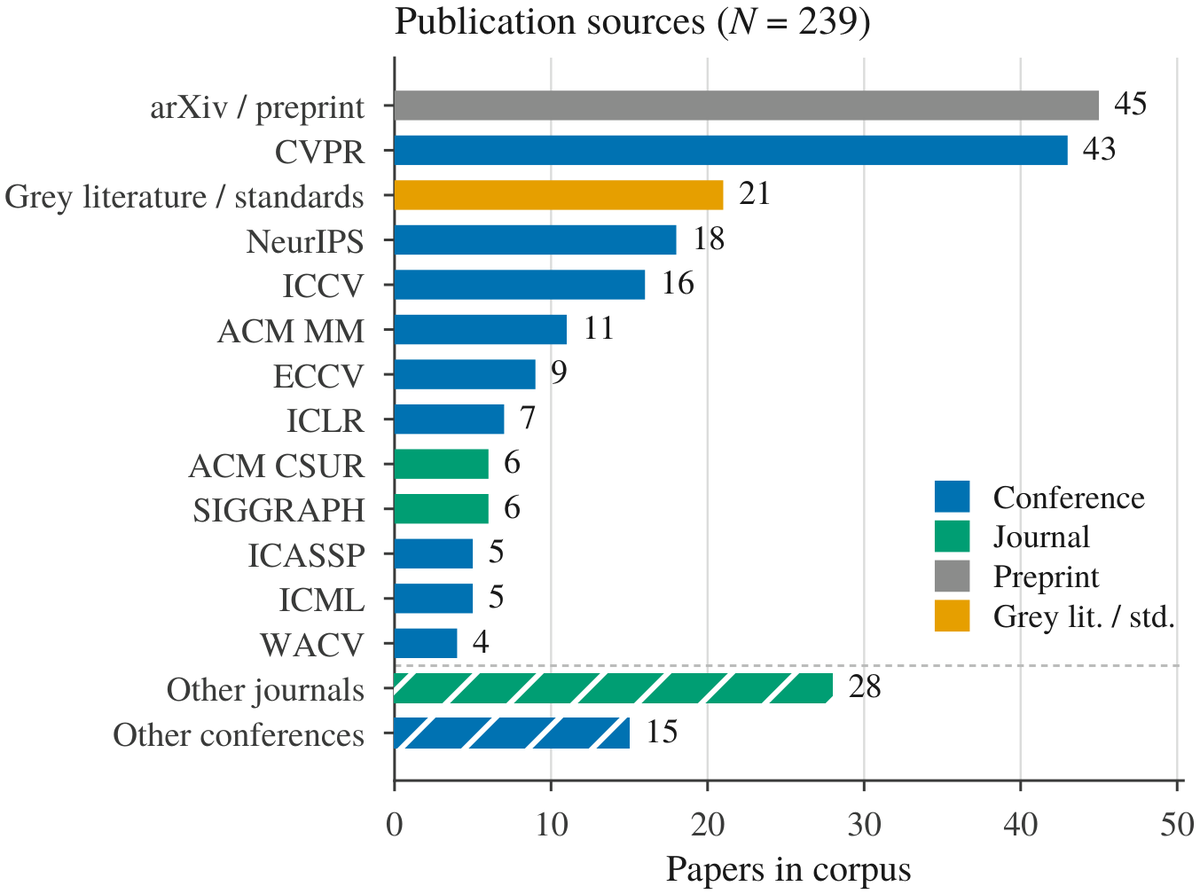
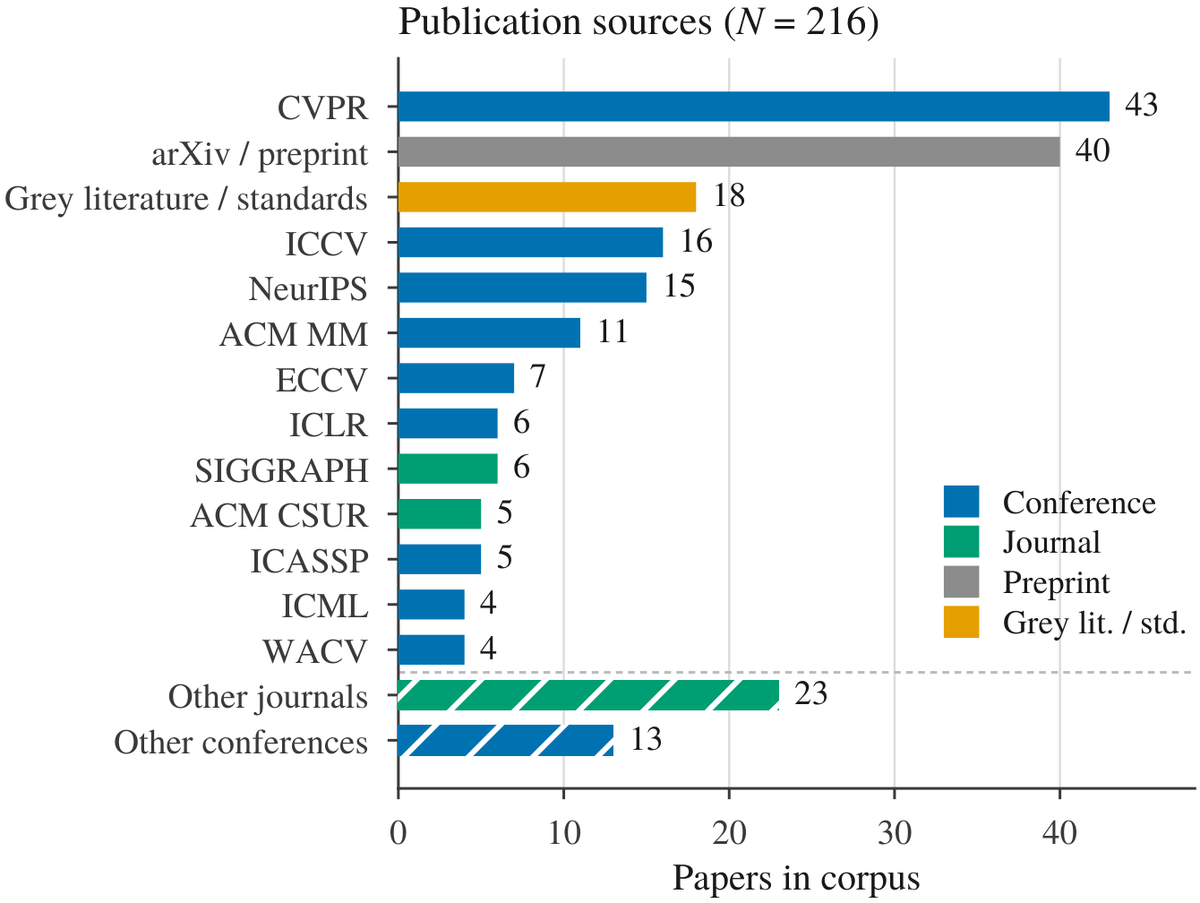
Sync with the revised paper
New title, four authors, and the corpus is 212 now instead of 239 - the
macro, the abstract and the actual citation count all agree on 212.

Also: 73% peer-reviewed, 13% for distribution/provenance/remediation,
218 excluded after full-text. Findings F1-F6 use Shaina's revised wording.
Four references were dropped from the paper, so the list is 212 entries.
Corpus charts re-rendered from the updated figure sources. Contact is just
Shaina's email.

diff --git a/docs/index.html b/docs/index.html
@@ -3,13 +3,13 @@
 <head>
   <meta charset="utf-8">
   <meta name="viewport" content="width=device-width, initial-scale=1">
-  <meta name="description" content="A survey of generative audio-video deepfakes across creation, platform distribution, detection, provenance, and remediation, organized around five forensic assumptions.">
+  <meta name="description" content="A survey of 212 works on generative audio-video deepfakes across creation, platform distribution, detection, provenance, and remediation, organized around five forensic assumptions.">
   <meta name="theme-color" content="#1e293b">
-  <title>Deepfake Detection Beyond the Lab</title>
+  <title>Deepfakes in the Foundation-Model Era</title>
 
   <meta property="og:type" content="website">
-  <meta property="og:title" content="Deepfake Detection Beyond the Lab: A Survey of Real-World Distribution, Forensics, and Provenance">
-  <meta property="og:description" content="239 works across the deepfake lifecycle, organized around five forensic assumptions that detectors implicitly rely on.">
+  <meta property="og:title" content="Deepfakes in the Foundation-Model Era: A Survey of Forensics, Distribution, and Provenance">
+  <meta property="og:description" content="212 works across the deepfake lifecycle, organized around five forensic assumptions that detectors implicitly rely on.">
   <meta property="og:url" content="https://vectorinstitute.github.io/deepfakes-survey-2026/">
   <meta property="og:image" content="https://vectorinstitute.github.io/deepfakes-survey-2026/images/figure5-lifecycle.png">
   <meta name="twitter:card" content="summary_large_image">
@@ -36,19 +36,18 @@
               </a>
             </div>
 
-            <h1 class="title is-1 publication-title">Deepfake Detection Beyond the Lab</h1>
-            <p class="is-size-5 publication-subtitle">A Survey of Real-World Distribution, Forensics, and Provenance</p>
+            <h1 class="title is-1 publication-title">Deepfakes in the Foundation-Model Era</h1>
+            <p class="is-size-5 publication-subtitle">A Survey of Forensics, Distribution, and Provenance</p>
 
             <div class="is-size-5 publication-authors">
               <span class="author-block">Shaina Raza,</span>
-              <span class="author-block">Jesse Ho,</span>
-              <span class="author-block">Ahmed Radwan,</span>
-              <span class="author-block">Mohamed Hafez,</span>
-              <span class="author-block">Graham Taylor</span>
+              <span class="author-block">Jessee Ho,</span>
+              <span class="author-block">Ahmed Y. Radwan,</span>
+              <span class="author-block">Mohamed Hafez</span>
             </div>
 
             <div class="is-size-6 publication-authors">
-              <span class="author-block">Vector Institute</span>
+              <span class="author-block">Vector Institute for Artificial Intelligence</span>
             </div>
 
             <div class="column has-text-centered">
@@ -111,24 +110,7 @@
           <h2 class="title is-3">Abstract</h2>
           <div class="content has-text-justified">
             <p>
-              Deepfake detection is usually measured on curated benchmarks, yet most synthetic video reaches an
-              audience through social media platforms that compress, resize, re-encode, crop, and repost it long
-              before any detector sees it. The practical question is therefore not whether a detector separates
-              real from fake under laboratory conditions, but whether the evidence it depends on still exists at
-              the moment a decision has to be made. This survey reviews 239 works on generative audio-video
-              deepfakes across the full lifecycle of creation, platform distribution, detection, provenance, and
-              remediation. We organize the review around five forensic assumptions that detectors implicitly rely
-              on: that a manipulated region leaves a boundary, that a generator leaves a stable fingerprint, that
-              test data resemble training data, that forensic signals survive processing, and that low-level clues
-              are sufficient. Using these assumptions as a common lens, we present an evidence-based taxonomy of
-              generation methods, review signal-driven, learning-based, reasoning-based, agentic, and adversarially
-              robust detection, and examine provenance mechanisms including content credentials and watermarking
-              alongside emerging disclosure and takedown regulation. Two findings recur. First, foundation-model
-              generation invalidates several assumptions at once, since fully synthetic and jointly generated
-              audio-video content offers neither a compositing boundary nor an exploitable cross-modal
-              inconsistency. Second, the literature is concentrated on creation and detection, with distribution,
-              provenance, and remediation together accounting for 12% of the corpus. We close with evaluation
-              protocols that report which assumptions a benchmark actually exercises.
+              Deepfake detection is usually measured on curated benchmarks, yet synthetic video often reaches audiences through social-media platforms that compress, resize, re-encode, crop, and repost it before downstream detection. The practical question is therefore not whether a detector separates real from fake under laboratory conditions, but whether the evidence it depends on still exists at the moment a decision must be made. This survey reviews 212 works on generative audio-video deepfakes across the full lifecycle of creation, platform distribution, detection, provenance, and remediation. We organize the review around five forensic assumptions that detectors implicitly rely on: that a manipulated region leaves a boundary, that a generator leaves a stable fingerprint, that test data resemble training data, that forensic signals survive processing, and that low-level clues are sufficient. Using these assumptions as a common lens, we present an evidence-based taxonomy of generation methods, review signal-driven, learning-based, reasoning-based, agentic, and adversarially robust detection, and examine provenance mechanisms including content credentials and watermarking alongside emerging disclosure and takedown regulation. Two findings recur. First, foundation-model generation can weaken several assumptions at once, since fully synthetic and jointly generated audio-video content may remove compositing boundaries and reduce exploitable cross-modal inconsistencies. Second, the literature is concentrated on creation and detection, with distribution, provenance, and remediation together accounting for 13% of the corpus. We close with evaluation protocols that report which assumptions a benchmark actually exercises.
             </p>
           </div>
         </div>
@@ -188,19 +170,19 @@
 
       <div class="columns is-centered stat-row has-text-centered">
         <div class="column stat">
-          <div class="stat-value">239</div>
+          <div class="stat-value">212</div>
           <div class="stat-label">works reviewed</div>
         </div>
         <div class="column stat">
-          <div class="stat-value">216</div>
-          <div class="stat-label">references cited</div>
+          <div class="stat-value">73%</div>
+          <div class="stat-label">peer-reviewed</div>
         </div>
         <div class="column stat">
           <div class="stat-value">75%</div>
           <div class="stat-label">creation &amp; detection</div>
         </div>
         <div class="column stat">
-          <div class="stat-value">12%</div>
+          <div class="stat-value">13%</div>
           <div class="stat-label">distribution, provenance, remediation</div>
         </div>
       </div>
@@ -238,7 +220,7 @@
       <h2 class="title is-3">Paper List</h2>
       <div class="content">
         <p>
-          All 216 references, grouped by year and by the role each plays in the survey, are on GitHub.
+          All 212 references, grouped by year and by the role each plays in the survey, are on GitHub.
         </p>
       </div>
       <a href="https://github.com/VectorInstitute/deepfakes-survey-2026" target="_blank" rel="noopener"
@@ -255,11 +237,11 @@
   <section class="section" id="BibTeX">
     <div class="container is-max-desktop content">
       <h2 class="title is-3 has-text-centered">BibTeX</h2>
-      <pre><code>@article{raza2026deepfake,
-  title   = {Deepfake Detection Beyond the Lab: A Survey of
-             Real-World Distribution, Forensics, and Provenance},
-  author  = {Raza, Shaina and Ho, Jesse and Radwan, Ahmed and
-             Hafez, Mohamed and Taylor, Graham},
+      <pre><code>@article{raza2026deepfakes,
+  title   = {Deepfakes in the Foundation-Model Era: A Survey of
+             Forensics, Distribution, and Provenance},
+  author  = {Raza, Shaina and Ho, Jessee and Radwan, Ahmed Y. and
+             Hafez, Mohamed},
   journal = {ACM Computing Surveys},
   year    = {2026},
   note    = {Under review}
@@ -280,6 +262,7 @@
               Resources used in preparing this research were provided, in part, by the Province of Ontario,
               the Government of Canada through CIFAR, and companies sponsoring the
               <a href="http://www.vectorinstitute.ai/#partners" target="_blank" rel="noopener">Vector Institute</a>.
+              This research was funded by the EU's Horizon Europe project AIXPERT (ID 101214389).
             </p>
             <p>
               This page was built using the

diff --git a/README.md b/README.md
@@ -1,9 +1,9 @@
-# Deepfake Detection Beyond the Lab: A Survey of Real-World Distribution, Forensics, and Provenance
+# Deepfakes in the Foundation-Model Era: A Survey of Forensics, Distribution, and Provenance
 
 [![Paper](https://img.shields.io/badge/Paper-Coming%20Soon-lightgrey)](https://github.com/VectorInstitute/deepfakes-survey-2026)
 [![Project Page](https://img.shields.io/badge/Project-Website-brightgreen)](https://vectorinstitute.github.io/deepfakes-survey-2026/)
-[![Corpus](https://img.shields.io/badge/Corpus-239%20works-blue)](#-the-evidence-gap)
-[![References](https://img.shields.io/badge/References-216-blue)](#-papers-by-category)
+[![Corpus](https://img.shields.io/badge/Corpus-212%20works-blue)](#-the-evidence-gap)
+[![References](https://img.shields.io/badge/References-212-blue)](#-papers-by-category)
 [![License: MIT](https://img.shields.io/badge/License-MIT-yellow)](LICENSE)
 [![PRs Welcome](https://img.shields.io/badge/PRs-welcome-brightgreen)](CONTRIBUTING.md)
 
@@ -21,21 +21,21 @@ Companion repository for our survey on **real-world deepfake detection**. Deepfa
 
 The practical question is therefore not whether a detector separates real from fake under laboratory conditions, but **whether the evidence it depends on still exists at the moment a decision has to be made**.
 
-**Authors:** Shaina Raza¹, Jesse Ho¹, Ahmed Radwan¹, Mohamed Hafez¹, Graham Taylor¹
+**Authors:** Shaina Raza¹, Jessee Ho¹, Ahmed Y. Radwan¹, Mohamed Hafez¹
 
 ¹Vector Institute for Artificial Intelligence
 
 | | |
 |---|---|
-| **Corpus** | 239 works; 72% peer-reviewed; median publication year 2024 |
-| **References** | 216 cited works, all listed below |
+| **Corpus** | 212 works; 73% peer-reviewed; median publication year 2024 |
+| **References** | 212 cited works, all listed below |
 | **Search window** | January 2017 – August 2026 |
 | **Databases** | IEEE Xplore · ACM DL · SpringerLink · ScienceDirect · OpenReview · PMLR · AAAI DL · arXiv |
 | **Scope** | Audio-video deepfakes, from generation through platform distribution to remediation |
 
 ---
 
-## What does "beyond the lab" mean?
+## What the survey covers
 
 
 A deepfake is not simply a video to classify. It passes through a lifecycle of creation, upload, platform processing, recommendation, viewing, reporting, review, and eventual removal, labelling, or continued spread. Media transformations within that lifecycle — compression, re-encoding, cropping, reposting — weaken or alter the very forensic traces that detectors rely on.
@@ -80,25 +80,12 @@ Detectors rely on assumptions about the evidence available to them. The survey g
   <br/>
   <img src="docs/images/figure3c-year-role.png" alt="Stacked bar chart of publications per year by primary role" width="47%"/>
   <img src="docs/images/figure3d-arms-race.png" alt="Line chart of cumulative generation versus detection effort" width="37%"/>
-  <p><em><strong>Figure 3.</strong> Overview of the reviewed corpus. (a) Creation and detection account for three quarters of the corpus, against 12% for distribution, provenance, and remediation combined. (b) Publication sources by venue type; 72% peer-reviewed. (c) Publications per year by primary role; the 2026 bar is partial (January to August). (d) Cumulative effort: detection led through 2023, but generation led by 24 works in 2024.</em></p>
+  <p><em><strong>Figure 3.</strong> Overview of the reviewed corpus. (a) Creation and detection account for 75% of the corpus, compared with 13% for distribution, provenance, and remediation combined. (b) Publication sources by venue type; 73% of the corpus is peer-reviewed. (c) Publications per year by primary generation/detection role; the 2026 bar is partial (January–August). (d) Cumulative generation and detection coverage over time.</em></p>
 </div>
-
-**Lifecycle-stage coverage (N = 239):**
-
-| Stage | Works | Share |
-|---|---:|---:|
-| Creation | 94 | 39% |
-| Detection | 85 | 36% |
-| Foundations / other | 32 | 13% |
-| Provenance | 16 | 7% |
-| Remediation | 8 | 3% |
-| Distribution | 4 | 2% |
-| **Distribution + provenance + remediation** | **28** | **12%** |
 
 **Key trends:**
 
-- **Coverage imbalance** — Creation and detection account for **75%** of the corpus, while distribution, provenance, and remediation together account for **12%**. The stages that determine what evidence survives to a detector are among the least studied.
-- **Generation is pulling ahead** — Cumulative generation research overtook detection research by 24 works in 2024.
+- **Coverage imbalance** — Creation and detection account for **75%** of the corpus, while distribution, provenance, and remediation together account for **13%**. The stages that determine what evidence survives to a detector are among the least studied.
 - **Benchmarks do not transfer** — Deepfake-Eval-2024 collects roughly 44 hours of video from 88 web sources and reports an average **50% AUC reduction** for evaluated open-source video detectors relative to their original benchmarks.
 - **Prevalence dominates deployment** — At 0.1% synthetic-media prevalence, a detector with TPR = 0.90 and FPR = 0.01 reaches only about **8.3% precision**. Threshold-independent AUC hides this entirely.
 
@@ -121,8 +108,8 @@ Detectors rely on assumptions about the evidence available to them. The survey g
 |---|---:|---|
 | Identified through database search and supplementary sources | 1,247 | 203 duplicates removed |
 | Screened by title & abstract | 1,044 | 614 excluded as irrelevant |
-| Full-text articles assessed for eligibility | 430 | 191 excluded after full-text review |
-| **Works included in survey** | **239** | — |
+| Full-text articles assessed for eligibility | 430 | 218 excluded after full-text review |
+| **Works included in survey** | **212** | — |
 
 </details>
 
@@ -250,19 +237,19 @@ Table 5 of the survey. *Described* denotes effects reported without a quantitati
 
 Applying A1–A5 uniformly across the reviewed generation methods, detectors, platform transformations, and benchmarks yields six findings.
 
-**F1. Effort concentrates on A3 and avoids A4.** Of the 50 detectors in Table 4, **36** include a mechanism for distribution shift (`A3`), whereas **39** depend on signals surviving processing (`A4`) and only **10** mitigate its failure. Six of those ten are reasoning or agentic systems whose per-sample cost rules them out of platform-scale screening. The assumption that distribution breaks most reliably has the fewest methods, and the fewest deployable ones.
+**F1. Research emphasizes A3 more than A4.** Of the **50 detectors** coded in Table 4, **36** explicitly mitigate distribution shift (`A3`), whereas **39** depend on forensic signals surviving processing (`A4`) and only **10** mitigate its failure. Five of these ten are reasoning-based or agentic systems, whose multiple inference or tool calls may limit their suitability for platform-scale screening. Although `A4` is widely assumed by existing methods, comparatively few directly address its failure.
 
-**F2. Boundary evidence has lapsed.** **41 of 50** detectors neither depend on `A1` nor mitigate it, and residual evidence falls from High for autoencoder and GAN face swapping to Low for diffusion, autoregressive, and flow-based full-frame generation. `A1` now carries weight only for localized editing, lip-sync, and composited body transfer.
+**F2. Boundary evidence is becoming less central.** In Table 4, **41 of 50** detectors neither depend on `A1` nor explicitly mitigate its failure. Residual boundary evidence declines from High for autoencoder- and GAN-based face manipulation to Low for diffusion, autoregressive, and flow-based full-frame generation. `A1` therefore remains most relevant to localized manipulations such as compositing, lip-sync editing, and body transfer rather than fully synthetic generation.
 
-**F3. Generalization is measured through one aging shift.** **18 of the 50** detectors report FaceForensics++ → Celeb-DF v2 as their headline cross-dataset result. Both endpoints are pre-2021 autoencoder and GAN identity swaps, so the number certifies transfer between two closely related face-swap distributions rather than open-world generalization. `A3` is at once the most mitigated assumption and the least stringently measured.
+**F3. Generalization is often evaluated through a narrow cross-dataset shift.** **Eighteen of the 50** detectors report FaceForensics++ → Celeb-DF v2 as a principal cross-dataset evaluation. Both benchmarks primarily represent pre-foundation-model facial manipulation, so this protocol measures transfer between related face-manipulation distributions rather than open-world generalization to contemporary generators. `A3` is therefore the most frequently mitigated assumption, while its evaluation remains comparatively narrow.
 
-**F4. Foundation-model content is largely unevaluated.** **34 of the 50** detectors report no evaluation on diffusion or foundation-model media; **14** do and **2** partially, and those that do belong to families that appeared from 2023 onward. This is a gap in the evaluation record rather than evidence of failure, and closing it requires re-evaluation, not new architectures.
+**F4. Foundation-model content remains under-evaluated.** Of the 50 detectors, **34** report no evaluation on diffusion- or foundation-model-generated media, **two** provide partial evaluation, and **14** explicitly evaluate such content. This represents a gap in the evaluation record rather than evidence that earlier detectors necessarily fail. Existing methods should be re-evaluated on contemporary generation paradigms before performance gaps are attributed solely to architectural limitations.
 
-**F5. Lifecycle effects are asserted, not measured.** **Three of the nine** platform transformations in Table 5 have a quantified effect and **one** is partial. Repost depth and screen recording have no degradation curve, and no work reports time to detection, posts before detection, or platforms reached. The gaps track the corpus imbalance: 12% of the 239 works cover distribution, provenance, and remediation against 75% for creation and detection.
+**F5. Lifecycle effects are more often described than quantified.** Of the **nine** entries in Table 5, **three** report quantitatively measured effects and **one** has partial evidence. Repost depth and screen recording lack reported degradation curves, and no work in the reviewed corpus reports time to detection, posts observed before detection, or platforms reached. This mirrors the broader corpus imbalance: only **13%** of the reviewed works address distribution, provenance, and remediation, compared with **75%** covering creation and detection.
 
-**F6. Benchmarks cover what is easy to vary.** Across the **22** benchmarks in Table 6, generator diversity (`A2`) is exercised by **21** and train–test dissimilarity (`A3`) by **20**, while signal survival (`A4`) is exercised by **12** and boundary availability (`A1`) by **13**; **three** exercise all five. Ranking therefore certifies the assumptions that adding generators can vary, while the reported halving of AUC on circulated media arises under conditions half the datasets omit.
+**F6. Benchmarks emphasize generator and distribution diversity over signal survival.** Across the **22** benchmarks in Table 6, generator diversity (`A2`) is exercised by **21** and train–test dissimilarity (`A3`) by **20**, whereas signal survival under processing (`A4`) is exercised by **12** and boundary availability (`A1`) by **13**; only **three** exercise all five assumptions. Current benchmark coverage therefore favors generator and distribution diversity, while substantially fewer benchmarks test whether forensic evidence survives realistic processing.
 
-> **Two consequences follow.** Provenance does not absorb the shortfall, because marking obligations bind identifiable providers while open-weight and locally run generators — the ones most used for targeted non-consensual and political content — fall outside them; watermark robustness cannot extend coverage the generator population does not grant. What the findings imply is not better classifiers but measurement of what survives distribution, and reporting of detection performance under it.
+> **Two consequences follow.** First, provenance cannot fully compensate for this evaluation gap because its coverage depends on adoption by generators and platforms; open-weight, forked, or locally operated pipelines may remain outside participating provenance ecosystems regardless of watermark robustness. Second, the findings motivate greater emphasis not only on improving classifiers, but on measuring which forensic signals survive real distribution pipelines and reporting detector performance under those conditions.
 
 </details>
 
@@ -272,11 +259,9 @@ Applying A1–A5 uniformly across the reviewed generation methods, detectors, pl
 ## 📖 Papers by Category
 
 
-All **216 references cited by the survey**, organized by the role each plays in the argument. Groups follow the paper's own tables: generation groups mirror Table 3, detection families mirror Table 4, and benchmarks mirror Table 6. Blockquotes give the assumption note the survey attaches to that group.
+All **212 references cited by the survey**, organized by the role each plays in the argument. Groups follow the paper's own tables: generation groups mirror Table 3, detection families mirror Table 4, and benchmarks mirror Table 6. Entries are ordered newest-first within a subsection, and blockquotes give the assumption note the survey attaches to that group.
 
-**Click any group to expand it.** Entries inside are grouped by year, newest first.
-
-> The reviewed **corpus** is 239 works while the **bibliography** cites 216: the corpus counts items the coverage analysis in Figure 3 scores, some of which are grouped as a series (the ASVspoof releases, for instance) or discussed only in aggregate. This list follows the bibliography, and covers all 216.
+> Corpus size and reference count now agree: the survey reviews 212 works and cites 212 references.
 
 ## 1. Foundations & Forensic Context
 
@@ -328,20 +313,15 @@ Section 2 of the survey: the five-stage attack pipeline, the generative paradigm
 </details>
 
 <details>
-<summary><strong>Preprocessing and representation</strong> &nbsp;<sub>4 entries</sub></summary>
+<summary><strong>Preprocessing and representation</strong> &nbsp;<sub>2 entries</sub></summary>
 
 **2020**
 
-- [2020] **Retinaface: Single-shot multi-level face localisation in the wild** *Jiankang Deng et al.* [[paper](https://doi.org/10.1109/cvpr42600.2020.00525)]
 - [2020] **wav2vec 2.0: A framework for self-supervised learning of speech representations** *Alexei Baevski et al.* [[paper](https://arxiv.org/abs/2006.11477)]
 
 **2016**
 
 - [2016] **Joint face detection and alignment using multitask cascaded convolutional networks** *Kaipeng Zhang et al.* [[paper](https://doi.org/10.1109/lsp.2016.2603342)]
-
-**1999**
-
-- [1999] **A Morphable Model for the Synthesis of 3D Faces** *Volker Blanz et al.* [[paper](https://doi.org/10.1145/311535.311556)]
 
 </details>
 
@@ -494,14 +474,13 @@ Section 3, organized by manipulation target, because the target determines what 
 </details>
 
 <details>
-<summary><strong>Lip-sync manipulation</strong> &nbsp;<sub>4 entries</sub></summary>
+<summary><strong>Lip-sync manipulation</strong> &nbsp;<sub>3 entries</sub></summary>
 
 > `A1` holds only around the mouth, and `A4` is especially fragile because compression erases small-region traces first.
 
 **2024**
 
 - [2024] **Diff2Lip: Audio Conditioned Diffusion Models for Lip-Synchronization** *Rudrabha Mukhopadhyay et al.* [[paper](https://arxiv.org/abs/2308.09716)]
-- [2024] **Musetalk: Real-time high-fidelity video dubbing via spatio-temporal sampling** *Yue Zhang et al.* [[paper](https://arxiv.org/abs/2410.10122)]
 
 **2022**
 
@@ -938,7 +917,7 @@ Section 5: what happens to forensic evidence after content enters social media.
 </details>
 
 <details>
-<summary><strong>Provenance, Watermarking, and Content Authenticity</strong> &nbsp;<sub>14 entries</sub></summary>
+<summary><strong>Provenance, Watermarking, and Content Authenticity</strong> &nbsp;<sub>13 entries</sub></summary>
 
 > `A4`, and `A2` for keyed recovery. Signed provenance sits largely outside `A1`–`A5`; watermarks inherit the same signal degradation.
 
@@ -966,10 +945,6 @@ Section 5: what happens to forensic evidence after content enters social media.
 **2021**
 
 - [2021] **Artificial fingerprinting for generative models: Rooting deepfake attribution in training data** *Ning Yu et al.* [[paper](https://doi.org/10.1109/iccv48922.2021.01418)]
-
-**2019**
-
-- [2019] **Robust invisible video watermarking with attention** *Kevin Alex Zhang et al.* [[paper](https://arxiv.org/abs/1909.01285)]
 
 </details>
 
@@ -1188,7 +1163,7 @@ Static benchmarks age as generators are released, and Table 6 shows that existin
 | Signed provenance | Credential stripping |
 | Generator attribution | Multi-stage pipelines |
 
-Provenance coverage is bounded by the compliant share of the generator population rather than by watermark robustness, leaving passive detection as the only evidence for the segment most often used to produce targeted non-consensual and political content.
+Provenance coverage depends on adoption by generators and platforms: open-weight, forked, or locally operated pipelines may remain outside participating provenance ecosystems regardless of watermark robustness.
 
 </details>
 
@@ -1251,11 +1226,11 @@ This is a living repository that will be updated as the field evolves. See [CONT
 If you find this survey useful in your research, please cite:
 
 ```bibtex
-@article{raza2026deepfake,
-  title   = {Deepfake Detection Beyond the Lab: A Survey of
-             Real-World Distribution, Forensics, and Provenance},
-  author  = {Raza, Shaina and Ho, Jesse and Radwan, Ahmed and
-             Hafez, Mohamed and Taylor, Graham},
+@article{raza2026deepfakes,
+  title   = {Deepfakes in the Foundation-Model Era: A Survey of
+             Forensics, Distribution, and Provenance},
+  author  = {Raza, Shaina and Ho, Jessee and Radwan, Ahmed Y. and
+             Hafez, Mohamed},
   journal = {ACM Computing Surveys},
   year    = {2026},
   note    = {Under review. Project page:
@@ -1279,7 +1254,7 @@ For questions about the repository itself, please [open an issue](https://github
 ## 🙏 Acknowledgments
 
 
-Resources used in preparing this research were provided, in part, by the Province of Ontario, the Government of Canada through CIFAR, and companies sponsoring the [Vector Institute](http://www.vectorinstitute.ai/#partners).
+Resources used in preparing this research were provided, in part, by the Province of Ontario, the Government of Canada through CIFAR, and companies sponsoring the [Vector Institute](http://www.vectorinstitute.ai/#partners). This research was funded by the EU's Horizon Europe project AIXPERT (ID 101214389).
 
 ---
 

diff --git a/CONTRIBUTING.md b/CONTRIBUTING.md
@@ -1,6 +1,6 @@
 # Contributing
 
-This is a living repository that accompanies the survey **Deepfake Detection Beyond the Lab: A Survey of Real-World Distribution, Forensics, and Provenance**. The field moves faster than any single review, so contributions are welcome.
+This is a living repository that accompanies the survey **Deepfakes in the Foundation-Model Era: A Survey of Forensics, Distribution, and Provenance**. The field moves faster than any single review, so contributions are welcome.
 
 ## Adding a paper
 
@@ -34,7 +34,7 @@ Datasets go in the [Datasets & Benchmarks](README.md#5-datasets--benchmarks) sec
 
 The README is generated from the paper's own LaTeX source, not transcribed by hand:
 
-- The **paper list** covers every one of the 216 references cited by the build, grouped using the paper's own table structure (Table 3 for generation families, Table 4 for detection families, Table 6 for benchmarks).
+- The **paper list** covers every one of the 212 references cited by the build, grouped using the paper's own table structure (Table 3 for generation families, Table 4 for detection families, Table 6 for benchmarks).
 - The **tables** on the project page reproduce Tables 1, 2, 5, and 6 cell-for-cell.
 - The **figures** in `docs/images/` are rendered from the figure sources in `figures/`, not cropped from the compiled PDF.
 
